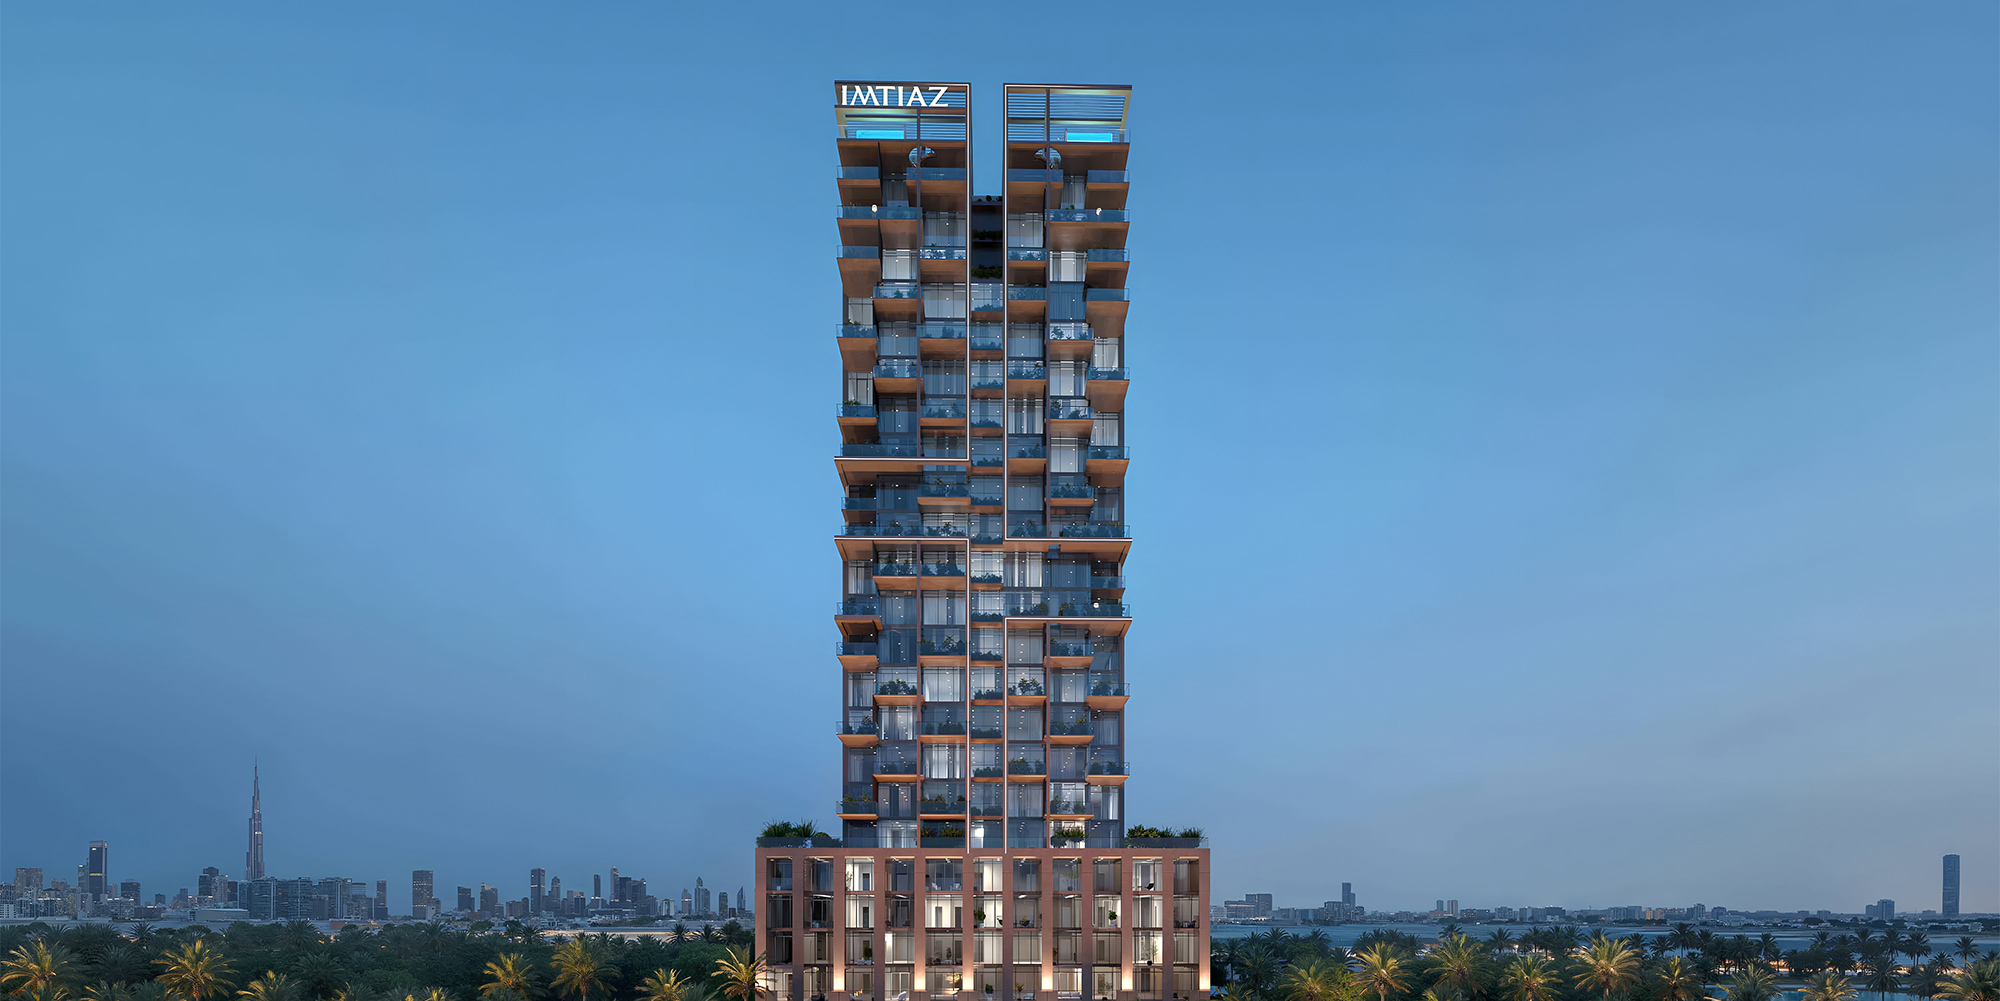
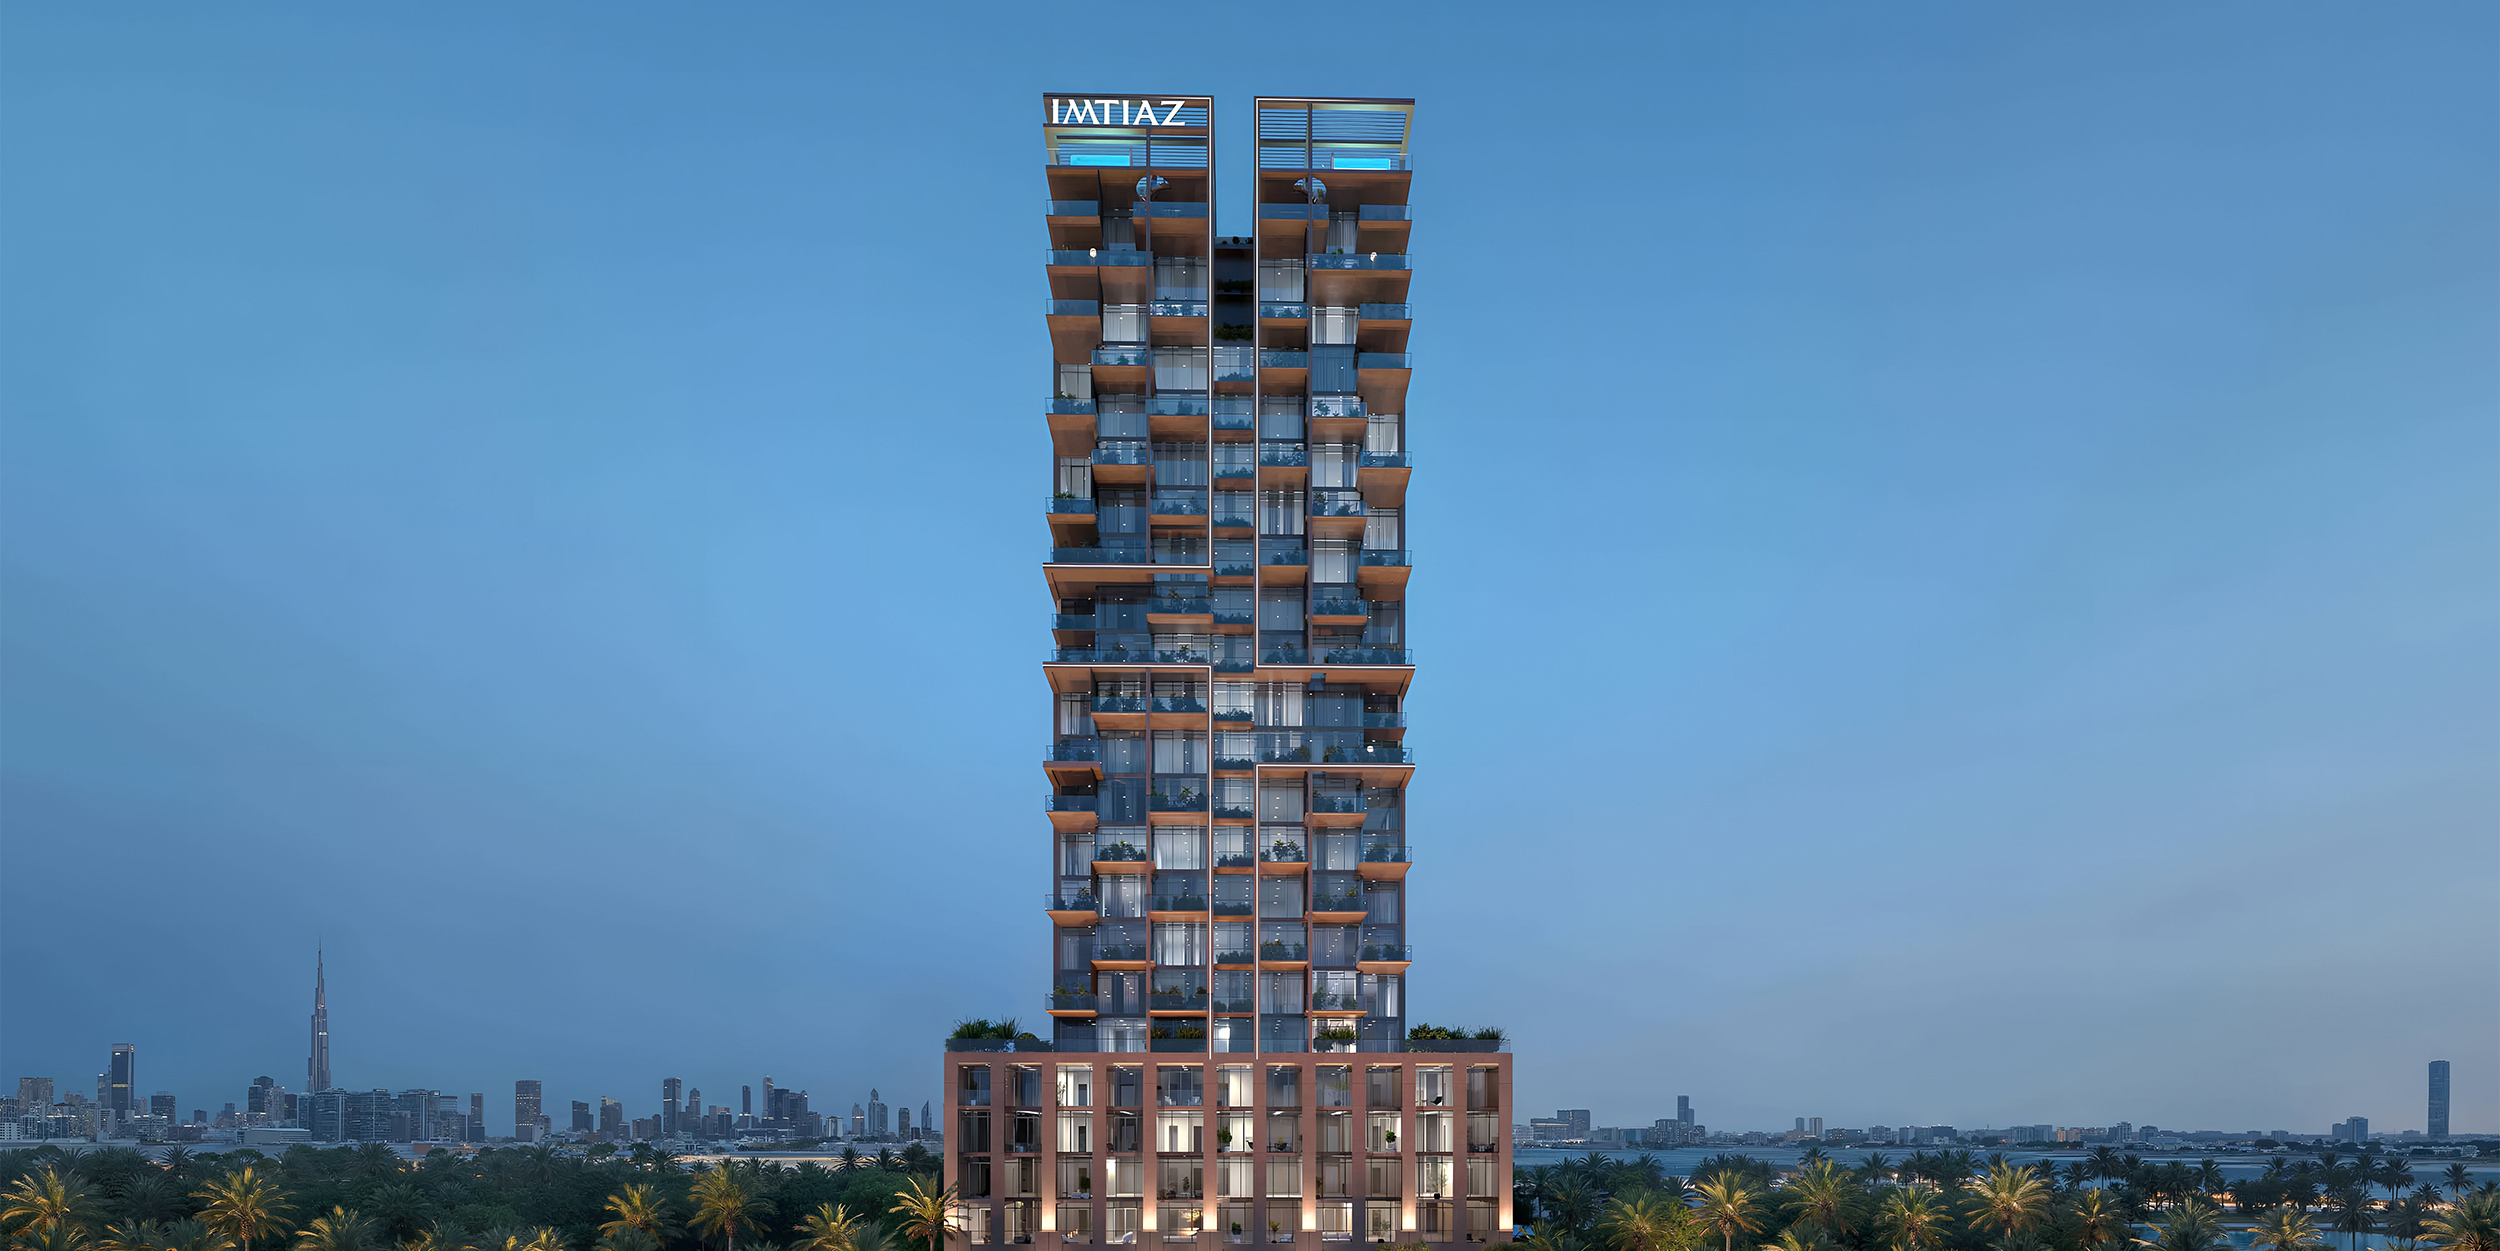
mnc

Changed region(s): [[0.0, 0.0619, 1.0, 1.0]]

diff --git a/app/(user)/page.tsx b/app/(user)/page.tsx
@@ -117,22 +117,22 @@ export default function Home() {
           .to(img1, { scale: 1, duration: 2 }, "-=0.6")
           .fromTo(
             ".img1-im",
-            { y: "-25vh" },
-            { y: "25vh", duration: 2, ease: "none" },
+            { y: "-20vh" },
+            { y: "20vh", duration: 2, ease: "none" },
             "<"
           )
           .to(img2, { scale: 1, duration: 2 }, "-=1")
           .fromTo(
             ".img2-im",
-            { y: "-25vh" },
-            { y: "25vh", duration: 2, ease: "none" },
+            { y: "-20vh" },
+            { y: "20vh", duration: 2, ease: "none" },
             "<"
           )
           .to(img3, { scale: 1, duration: 2 }, "-=1")
           .fromTo(
             ".img3-im",
-            { y: "-25vh" },
-            { y: "25vh", duration: 2, ease: "none" },
+            { y: "-20vh" },
+            { y: "20vh", duration: 2, ease: "none" },
             "<"
           )
           .to(
@@ -275,8 +275,8 @@ export default function Home() {
 
         <div className="img1-1 absolute w-full h-full z-20 inset-0 scale-[0] overflow-hidden">
           <Image
-            className="img1-im w-full h-full object-cover object-center absolute scale-[1.5]"
-            src="/images/home/img01.jpg"
+            className="img1-im w-full h-full object-cover object-center absolute scale-[1.4]"
+            src="/images/home/Wynwood-1.jpg"
             alt=""
             width={2500}
             height={1000}
@@ -285,8 +285,8 @@ export default function Home() {
 
         <div className="img1-2 absolute w-full h-full z-30 inset-0 scale-[0] overflow-hidden">
           <Image
-            className="img2-im w-full h-full object-cover object-center absolute scale-[1.5]"
-            src="/images/home/img02.jpg"
+            className="img2-im w-full h-full object-cover object-center absolute scale-[1.4]"
+            src="/images/home/Wynwood-2.jpg"
             alt=""
             width={2500}
             height={1000}
@@ -295,8 +295,8 @@ export default function Home() {
 
         <div className="img1-3 absolute w-full h-full z-40 inset-0 scale-[0] overflow-hidden">
           <Image
-            className="img3-im w-full h-full object-cover object-center absolute scale-[1.5]"
-            src="/images/home/imtiaz-properties/2.png"
+            className="img3-im w-full h-full object-cover object-center absolute scale-[1.4]"
+            src="/images/home/Wynwood-3.jpg"
             alt=""
             width={2500}
             height={1000}